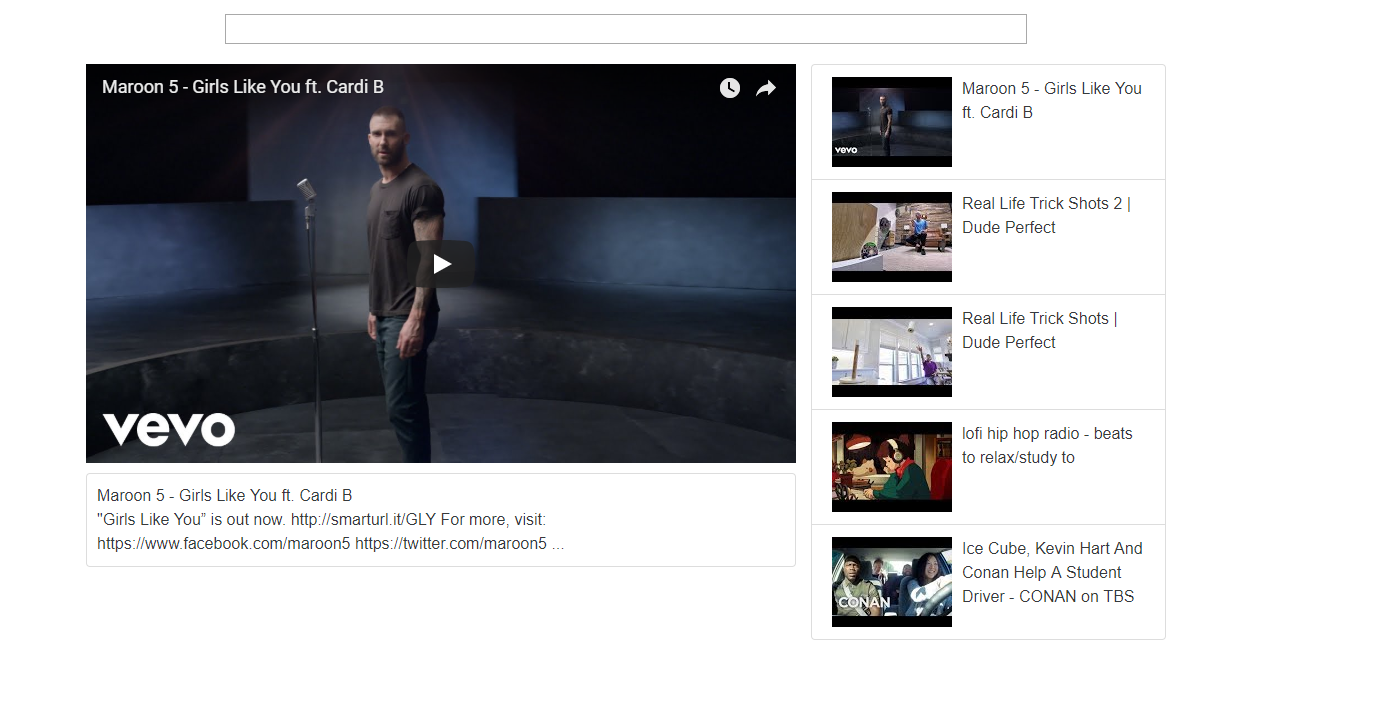
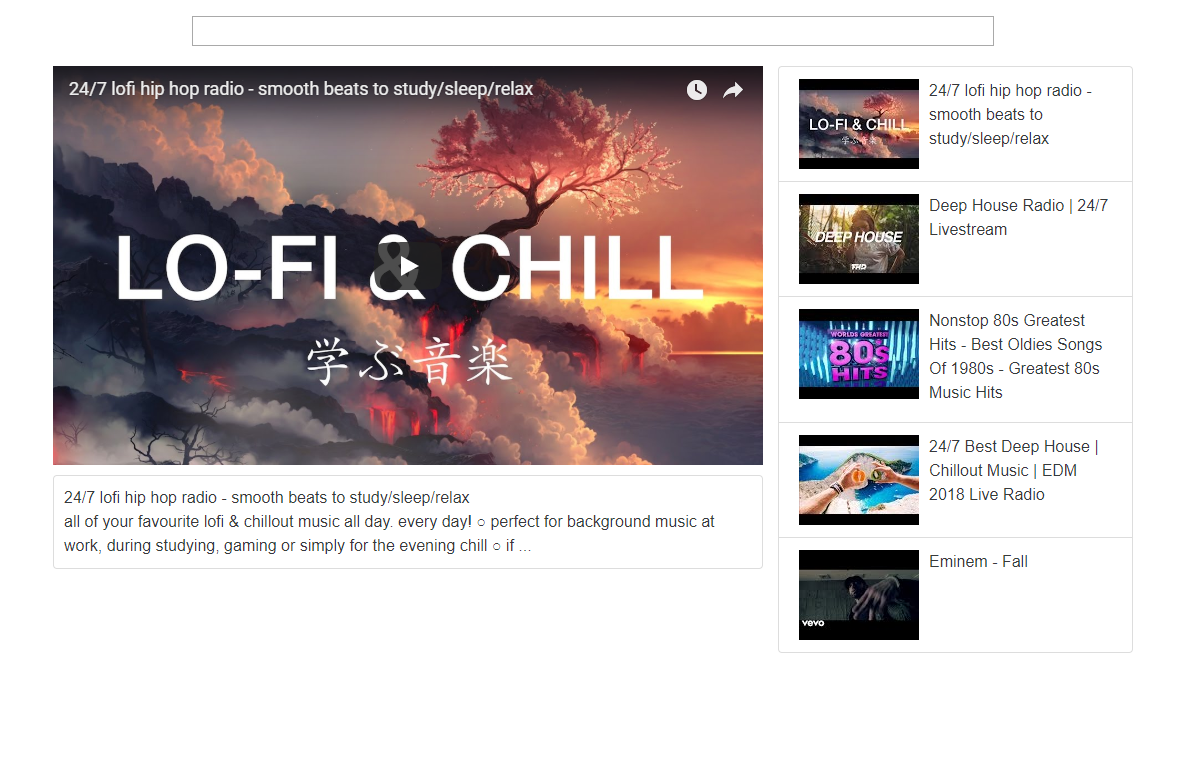
Updated screenshot

diff --git a/src/index.js b/src/index.js
@@ -18,7 +18,7 @@ class App extends Component {
 			videos: [],
 			selectedVideo: null,
 		};
-		this.videoSearch('movies')
+		this.videoSearch('music')
 	}
 
 	videoSearch(term){
